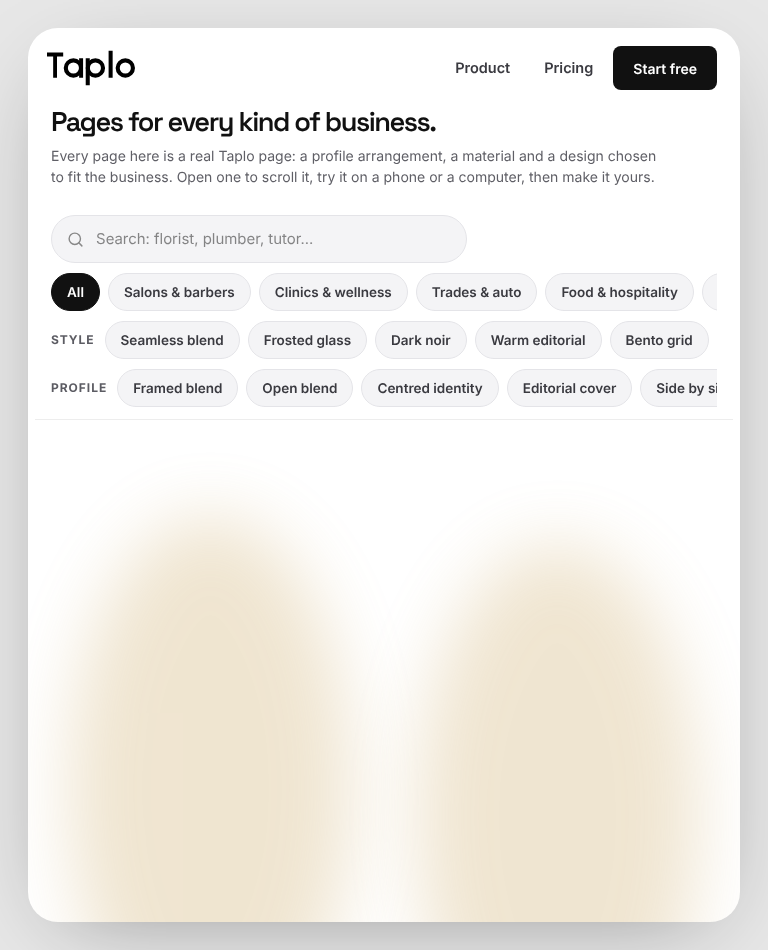
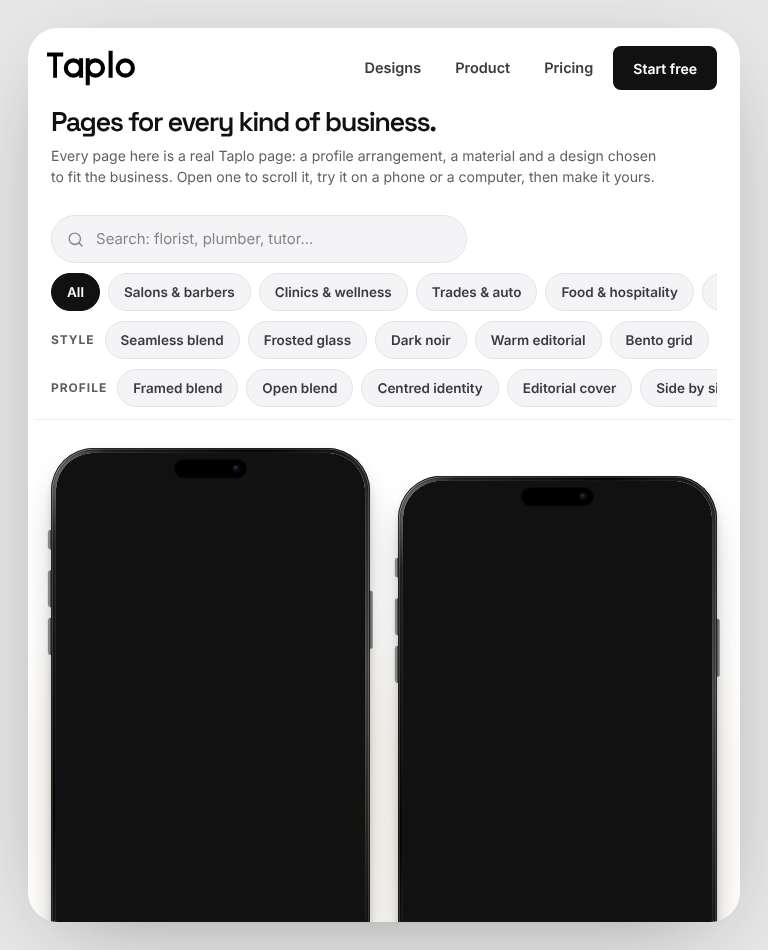
Onboarding: look right after the name, lighter first step, skippable contact; audit document
Claude-Session: https://claude.ai/code/session_018ov2NmuVk2PFZbq6ZGLVtP

diff --git a/src/features/demo/Onboarding.tsx b/src/features/demo/Onboarding.tsx
@@ -42,22 +42,22 @@ import { SetupConnections } from "./SetupConnections"
 import type { WidgetType } from "@/features/page/contracts/widgets"
 
 const STEP_LABEL: Record<OnboardingStep, string> = {
-  business: "Your business",
+  business: "Your name",
+  widgets: "Your look",
   industry: "What you do",
-  goal: "Your next step",
-  reach: "Get in touch",
-  widgets: "Design",
+  goal: "What customers do",
+  reach: "Contact",
   contacts: "First content",
-  publish: "Review",
   plan: "Plan",
+  publish: "Review",
 }
 const PART_TITLE = { business: "Tell people what you do.", reach: "Add your details." } as const
 const STEP_TITLE: Record<OnboardingStep, string> = {
   business: "Make it yours.",
   industry: "What do you do?",
-  goal: "Choose the first step.",
-  reach: "How should people reach you?",
-  widgets: "Your page, your style.",
+  goal: "What would you like customers to do?",
+  reach: "How can customers reach you?",
+  widgets: "Choose a look.",
   plan: "Room to grow.",
   contacts: "Add your first content",
   publish: "Review your page",
@@ -132,7 +132,7 @@ export function Onboarding() {
 
   const [part, setPart] = React.useState(0)
   // On a phone, a long step is spread over two screens so each one asks for one kind of thing.
-  const parts = mobileSetup ? ({ business: 2, reach: 2 } as Partial<Record<OnboardingStep, number>>)[step] ?? 1 : 1
+  const parts = mobileSetup ? ({ reach: 2 } as Partial<Record<OnboardingStep, number>>)[step] ?? 1 : 1
   const lastPart = part >= parts - 1
   // The phone preview stays in view while the main button is chosen, so the choice is seen on the page at once.
   const previewStep = ["business", "contacts", "widgets", "publish"].includes(step) || (step === "reach" && parts > 1 && part === 0)
@@ -201,7 +201,7 @@ export function Onboarding() {
   const valid: Record<OnboardingStep, boolean> = {
     industry: state !== null && Boolean(c.identity.industryLabel.trim()),
     goal: true,
-    reach: connectionsValid && (goalOf(s) === "call" ? Boolean(c.contacts.phone) : hasContactChannel(c)),
+    reach: connectionsValid,
     plan: true,
     business: Boolean(c.identity.name.trim()) && slugErrs.length === 0,
     contacts: contentValid,
@@ -287,8 +287,9 @@ export function Onboarding() {
           {step === "business" ? (
             <div className="grid gap-5">
               <div className="grid gap-5" hidden={parts > 1 && part > 0}>
-              <ImageField presentation="identity" framing={s.page.appearance.header?.avatarShape === "circle"?"circle":s.page.appearance.header?.avatarShape === "square"?"square":"logo"} purpose="identity" samples={false} onFramingChange={shape=>update(x=>({...x,page:{...x.page,appearance:{...x.page.appearance,header:{...x.page.appearance.header,avatarShape:shape}}}}))} label="Add your logo or profile photo" cropAspect={1} defaultAlt={`${c.identity.name || "Business"} logo`} maxEdge={640} value={c.identity.logo ?? null} onChange={(v) => update((x) => ({ ...x, content: { ...x.content, identity: { ...x.content.identity, logo: v ?? undefined } } }))} />
-              <TaploInput label="Business name" placeholder="e.g. North Street Studio" value={c.identity.name} maxLength={100} autoComplete="organization" onChange={(e) => update((x) => setName(x, e.target.value), { coalesce: "name" })} />
+              <p className="setup-lede -mt-4 text-[0.95rem] text-muted-foreground">Start with your business name. You can add the rest whenever you’re ready.</p>
+              <TaploInput label="Business name" autoFocus={!mobileSetup} placeholder="e.g. North Street Studio" value={c.identity.name} maxLength={100} autoComplete="organization" onChange={(e) => update((x) => setName(x, e.target.value), { coalesce: "name" })} />
+              <ImageField presentation="identity" framing={s.page.appearance.header?.avatarShape === "circle"?"circle":s.page.appearance.header?.avatarShape === "square"?"square":"logo"} purpose="identity" samples={false} onFramingChange={shape=>update(x=>({...x,page:{...x.page,appearance:{...x.page.appearance,header:{...x.page.appearance.header,avatarShape:shape}}}}))} label="Add a logo or photo · Optional" cropAspect={1} defaultAlt={`${c.identity.name || "Business"} logo`} maxEdge={640} value={c.identity.logo ?? null} onChange={(v) => update((x) => ({ ...x, content: { ...x.content, identity: { ...x.content.identity, logo: v ?? undefined } } }))} />
               <div className="setup-address" data-testid="setup-address">
                 <span className="setup-address-label">Your link</span>
                 <span className="setup-address-url" aria-live="polite"><span className="text-muted-foreground">{TAPLO_DOMAINS.host}/</span><strong>{c.identity.slug || "your-name"}</strong></span>
@@ -300,14 +301,15 @@ export function Onboarding() {
               ) : null}
 
               </div>
-              <div className="grid gap-5" hidden={parts > 1 && part === 0}>
+              <details className="setup-more grid gap-4" data-testid="business-more"><summary className="setup-secondary cursor-pointer list-none">Add a description or cover photo · Optional</summary>
+              <div className="mt-4 grid gap-5">
               <TaploInput label="Short description (optional)" placeholder="e.g. Independent hair studio in St Albans." value={c.identity.tagline ?? ""} maxLength={160} onChange={(e) => update((x) => ({ ...x, content: { ...x.content, identity: { ...x.content.identity, tagline: e.target.value || undefined } } }), { coalesce: "tag" })} />
               <Overlay trigger={<button type="button" className="setup-secondary">Add a cover photo</button>} open={profileOpen} onOpenChange={setProfileOpen} title="Cover photo" footer={<Button className="min-h-11 w-full" onClick={()=>setProfileOpen(false)}>Done</Button>}><div className="grid gap-5">
 
 
               <ImageField purpose="cover" samples={false} label="Cover photo (optional)" cropAspect={16 / 9} defaultAlt={`${c.identity.name || "Business"} cover photo`} maxEdge={1600} value={c.identity.heroImage ?? null} onChange={(v) => update((x) => ({ ...x, content: { ...x.content, identity: { ...x.content.identity, heroImage: v ?? undefined } } }))} />
               </div></Overlay>
-              </div>
+              </div></details>
             </div>
           ) : null}
 
@@ -320,7 +322,7 @@ export function Onboarding() {
           </motion.div>
           {step !== "publish" ? (
             <div className="setup-next mt-8 flex flex-wrap items-center gap-3">
-              {step === "contacts" && !s.setupDrafts?.reviewEdit ? <button type="button" className="setup-skip setup-secondary" onClick={()=>go("widgets")}>Skip for now</button> : null}
+              {(step === "contacts" || step === "reach") && !s.setupDrafts?.reviewEdit ? <button type="button" className="setup-skip setup-secondary" onClick={next}>Skip for now</button> : null}
               {stepIndex > 0 ? <Button variant="outline" size="lg" onClick={back}>Back</Button> : null}
               <Button className="flex-1 bg-signal text-white hover:bg-[#333333] sm:flex-none sm:min-w-40" size="lg" onClick={() => (partValid ? (lastPart ? next() : (setShowErrors(false), setPart(part + 1))) : setShowErrors(true))} aria-describedby={!partValid && showErrors ? "why-disabled" : undefined}>{s.setupDrafts?.reviewEdit?"Save changes":"Continue"}</Button>
               {!partValid && showErrors ? <p id="why-disabled" role="alert" className="text-sm text-destructive">{why[step]}</p> : null}

diff --git a/src/app/inspiration/page.tsx b/src/app/inspiration/page.tsx
@@ -1,34 +1,16 @@
 import type { Metadata } from "next";
-import Link from "next/link";
-import { TaploLogo } from "@/components/taplo/brand";
-import { SetupBackdrop } from "@/features/demo/SetupBackdrop";
 import { DesignGallery } from "@/features/inspiration/DesignGallery";
-import "@/features/inspiration/inspiration-scene.css";
+import { InspirationFrame } from "@/features/inspiration/InspirationFrame";
 
 export const metadata: Metadata = {
   title: "Designs | Taplo",
   description: "Explore Taplo designs on a page like yours. Open one, try it on phone and computer, then make it your own.",
 };
 
-/** The designs page has its own framed experience, like setup: one white panel on the moving backdrop, with its own scrolling. */
 export default function InspirationPage() {
   return (
-    <div className="ig-scene">
-      <SetupBackdrop />
-      <div className="ig-frame">
-        <header className="ig-top" aria-label="Taplo website">
-          <Link href="/" aria-label="Taplo home" className="ig-logo"><TaploLogo className="h-9" /></Link>
-          <nav className="ig-nav" aria-label="Primary">
-            <Link href="/product">Product</Link>
-            <Link href="/pricing">Pricing</Link>
-            <Link href="/onboarding" className="ig-cta" data-brand-action>Start free</Link>
-          </nav>
-        </header>
-        <div className="ig-scroll">
-          <main><DesignGallery /></main>
-          <footer className="ig-foot"><Link href="/credits">Credits</Link><Link href="/legal/terms">Terms</Link><Link href="/legal/privacy">Privacy</Link></footer>
-        </div>
-      </div>
-    </div>
+    <InspirationFrame>
+      <DesignGallery />
+    </InspirationFrame>
   );
 }

diff --git a/src/app/inspiration/[slug]/page.tsx b/src/app/inspiration/[slug]/page.tsx
@@ -1,7 +1,7 @@
 import Link from "next/link";
 import { notFound } from "next/navigation";
 import type { Metadata } from "next";
-import { SiteFooter, SiteHeader } from "@/features/marketing/Site";
+import { InspirationFrame } from "@/features/inspiration/InspirationFrame";
 import { ArrowLink } from "@/features/marketing/Scenes";
 import { MarketingPreview } from "@/features/marketing/MarketingPreview";
 import { DesignPreview } from "@/features/inspiration/DesignPreview";
@@ -39,9 +39,8 @@ export default async function ExamplePage({
   const industry = INDUSTRY_FILTERS.find((i) => i.id === e.industry)!;
   const others = relatedExamples(e);
   return (
-    <div className="design-library bg-[#101010] text-white [--foreground:#ffffff] [--background:#101010] [--muted:#242424] [--muted-foreground:#aaaaaa]">
-      <SiteHeader />
-      <main>
+    <InspirationFrame>
+      <div className="ig-detail-page text-foreground [--foreground:#111111] [--background:#ffffff] [--muted:#f3f3f5] [--muted-foreground:#6b6b72]">
         <section className="mx-auto w-full max-w-7xl px-5 pb-8 pt-8 sm:pt-12">
           <nav aria-label="Breadcrumb" className="text-sm text-foreground/60">
             <Link href="/inspiration" className="underline underline-offset-4">
@@ -121,8 +120,7 @@ export default async function ExamplePage({
             })}
           </ul>
         </section>
-      </main>
-      <SiteFooter />
-    </div>
+      </div>
+    </InspirationFrame>
   );
 }

diff --git a/src/features/inspiration/InspirationFrame.tsx b/src/features/inspiration/InspirationFrame.tsx
@@ -1,0 +1,28 @@
+import Link from "next/link";
+import { TaploLogo } from "@/components/taplo/brand";
+import { SetupBackdrop } from "@/features/demo/SetupBackdrop";
+import "./inspiration-scene.css";
+
+/** The designs area has its own framed experience, like setup: one white panel on the moving backdrop, with its own scrolling. */
+export function InspirationFrame({ children }: { children: React.ReactNode }) {
+  return (
+    <div className="ig-scene">
+      <SetupBackdrop />
+      <div className="ig-frame">
+        <header className="ig-top" aria-label="Taplo website">
+          <Link href="/" aria-label="Taplo home" className="ig-logo"><TaploLogo className="h-9" /></Link>
+          <nav className="ig-nav" aria-label="Primary">
+            <Link href="/inspiration">Designs</Link>
+            <Link href="/product">Product</Link>
+            <Link href="/pricing">Pricing</Link>
+            <Link href="/onboarding" className="ig-cta" data-brand-action>Start free</Link>
+          </nav>
+        </header>
+        <div className="ig-scroll">
+          <main>{children}</main>
+          <footer className="ig-foot"><Link href="/credits">Credits</Link><Link href="/legal/terms">Terms</Link><Link href="/legal/privacy">Privacy</Link></footer>
+        </div>
+      </div>
+    </div>
+  );
+}

diff --git a/src/features/demo/store.ts b/src/features/demo/store.ts
@@ -17,7 +17,8 @@ import { PLAN_IDS, type PlanId } from "@/features/subscriptions/plans";
 const KEY = "taplo.demo.v2";
 const LEGACY_KEY = "taplo.demo.v1";
 
-export const ONBOARDING_STEPS = ["business", "industry", "goal", "reach", "contacts", "widgets", "plan", "publish"] as const;
+// Name first, then the look (so the business is seen coming to life), then what it does, what customers should do, first content, plan, review.
+export const ONBOARDING_STEPS = ["business", "widgets", "industry", "goal", "reach", "contacts", "plan", "publish"] as const;
 export type OnboardingStep = (typeof ONBOARDING_STEPS)[number];
 
 export interface DemoState {

diff --git a/docs/onboarding-audit.md b/docs/onboarding-audit.md
@@ -1,0 +1,29 @@
+# Onboarding audit (traced in the repository)
+
+Branch `claude/modest-cerf-4tont1`. Sandbox deployment: `capabilities()` in `src/lib/capabilities.ts` reports no accounts, no public publishing, no messaging, no payments.
+
+## The journey before this pass
+`src/features/demo/store.ts` `ONBOARDING_STEPS`: business, industry, (goal folded into reach), reach, contacts (first content), widgets (look), plan, publish.
+| Step | Captured | Gate |
+|---|---|---|
+| business | logo (optional), name, generated link (editable), description, cover photo | name + valid link |
+| industry | category (search over `keywords`, 4 popular + "different type"), Other write-in, optional "I also do" (max 2) | a category label |
+| reach | goal intent (multi-select), main button, website, email, phone, WhatsApp, socials | **at least one contact channel was required** |
+| contacts | first service(s): name, price, minutes | complete rows |
+| widgets | starting look and colour, arrangements | none |
+| plan | plan intent (Free selectable) | none |
+| publish | review + publish | all required readiness items |
+State: one localStorage document (`taplo.demo.v2`), written on every change, so refresh and back keep everything. Link generated from the name; manual edits are preserved (`slugEdited`).
+
+## Findings
+- **Working:** autosave and resume; mobile bottom sheet with a labelled grip button, Arrow/Escape keys and drag; link handling; Other write-in; "I also do"; goals stored as intent separate from configuration; plan step with Free selectable; sandbox honesty copy.
+- **Confusing / wrong for the brief:** the look came after first content and contact details; the first screen asked for description and cover photo on a second phone screen; a contact channel was mandatory; the category label was always shown publicly; there was no "where do you work" question; the preview showed empty sections rather than a realistic page.
+- **Not implemented, and not claimed:** accounts and sign-in (sandbox), payments, importing from or syncing with another platform (only a link is stored), public publishing.
+
+## Category tailoring (48 presets, `src/features/themes/presets/industries`)
+- 45 have 3 to 5 suggested services with names and short descriptions; 17 have a bespoke 4-widget to 8-widget starter set; `maker` and `illustrator` have no suggested services; `other` has none by design.
+- Each preset carries terminology (services/team/booking/reviews labels), a suggested booking mode, a ranked list of 3 to 6 designs (suggestion only) and search keywords.
+- No category has bespoke arrangements or bespoke example imagery. Tailoring is vocabulary, starter sections and suggested items.
+
+## After this pass
+See `docs/brief-audit.md` for verification and the onboarding report in the final message.
